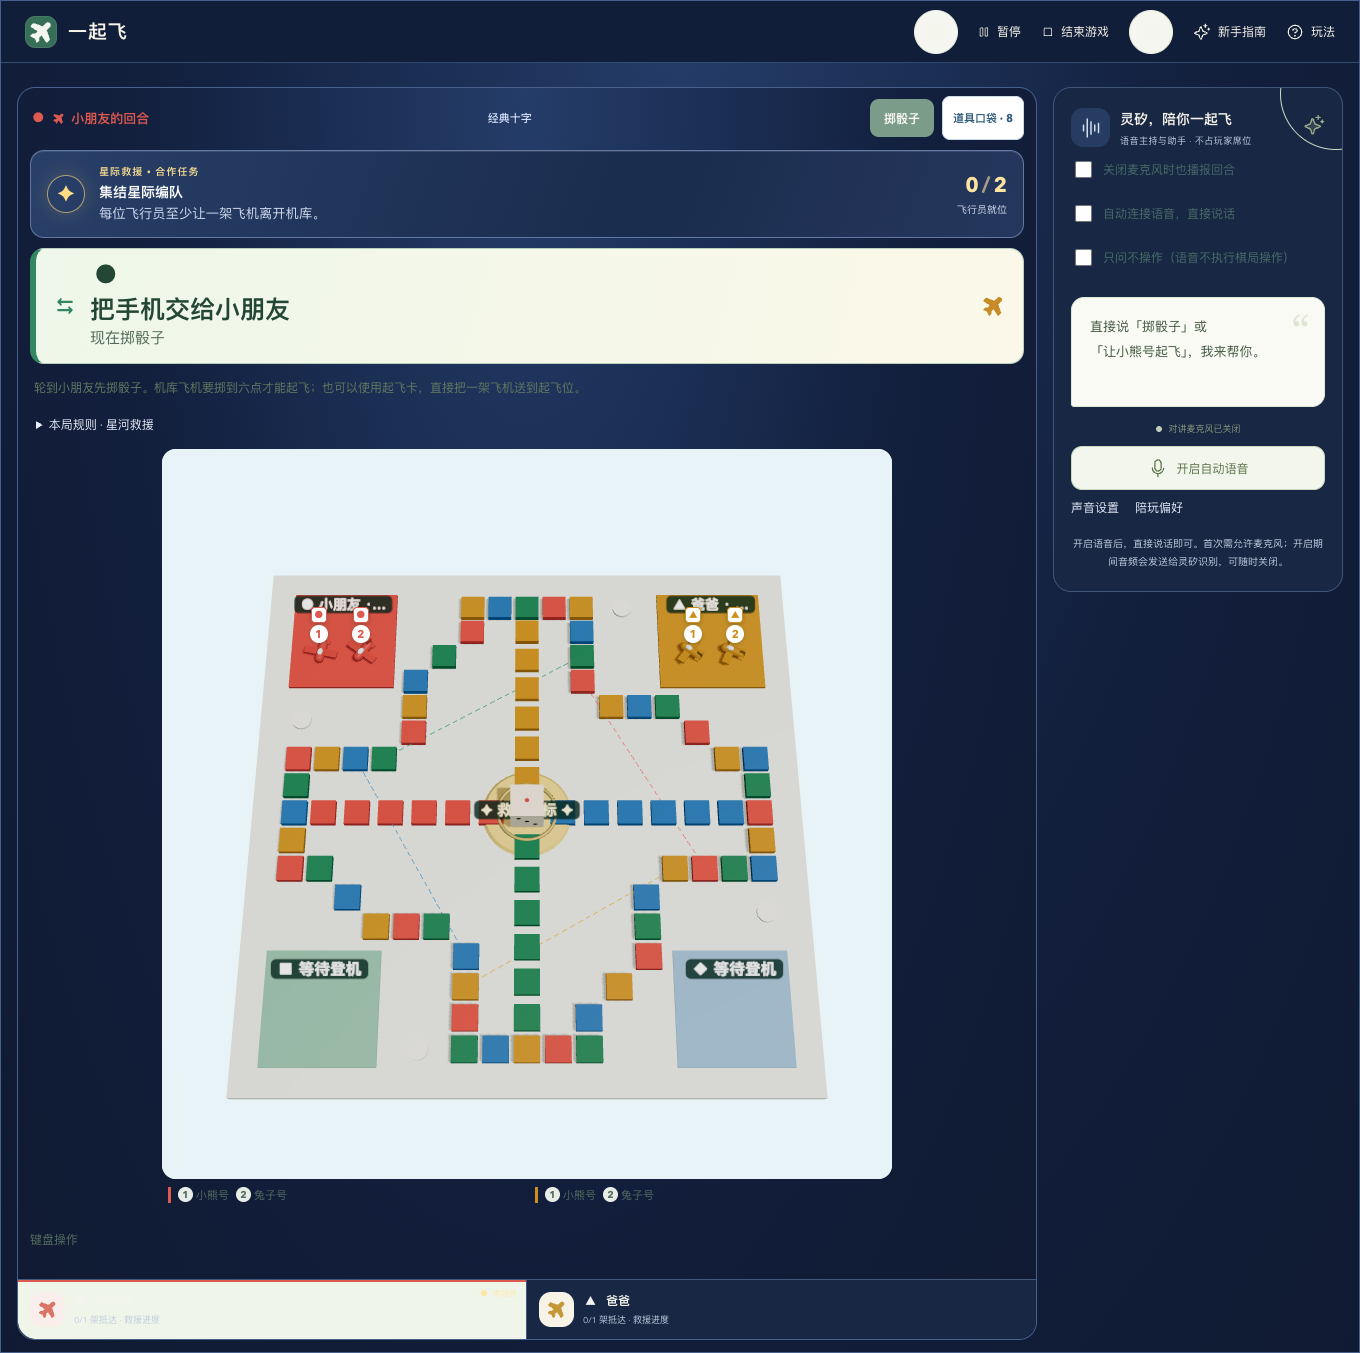
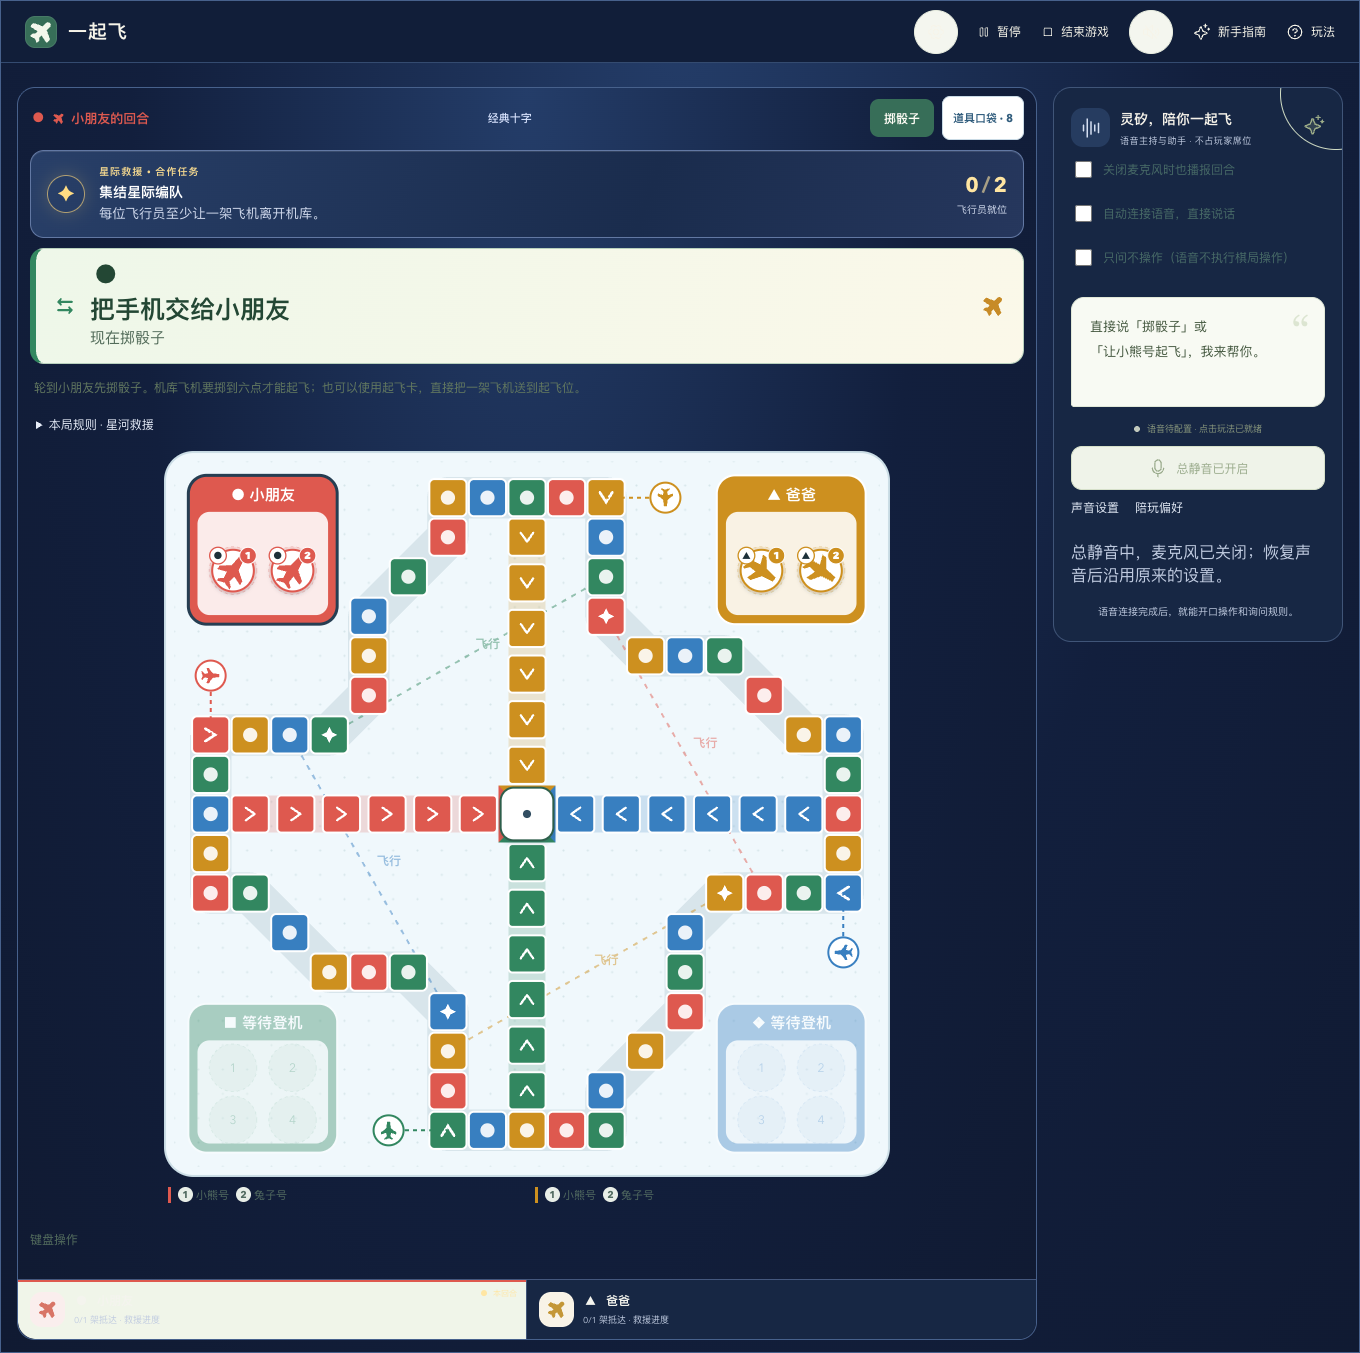
docs: record issue 62 mission verification

Changed region(s): [[0.0926, 0.3104, 0.6794, 0.8692], [0.7721, 0.3104, 0.9574, 0.4656], [0.6176, 0.0621, 0.7103, 0.1242]]

diff --git a/docs/PROGRESS.md b/docs/PROGRESS.md
@@ -1,6 +1,6 @@
 # 一起飞 · 项目进展
 
-- 更新日期：2026-10-24（Asia/Shanghai）
+- 更新日期：2026-10-25（Asia/Shanghai）
 - 当前阶段：P1陪玩风格/频率、亲子/经典预设与按需棋盘已部署；用户确认亲子/实体手机完成；家庭档案/真实跨局历史已交付；轻量棋盘/减少动画/键盘首版已交付；星河救援合作挑战已合并；玩法平衡继续收集真实家庭反馈
 - 比赛安排：三天两晚，一人开发
 - 公开仓库：[zkevindev/flytogether](https://github.com/zkevindev/flytogether)
@@ -13,7 +13,7 @@
 | M2：家庭飞行棋玩法 | [#2](https://github.com/zkevindev/flytogether/issues/2) | 点击玩法和三种棋盘已同步到 main；实际浏览器演示通过 | 本轮直接同步 main，未创建 PR；后续改动按切片关联 |
 | M3：试玩与比赛交付 | [#3](https://github.com/zkevindev/flytogether/issues/3) | PR #58 已合并；浏览器断网恢复、可见性事件和 30 分钟累计回复队列模拟已完成；真实手机切网/后台/声学与灵矽长连仍待现场 | [PR #58](https://github.com/zkevindev/flytogether/pull/58) · merge `802c893` · [DEMO-RUNBOOK](DEMO-RUNBOOK.md) |
 | 产品化 1.0 | [#17](https://github.com/zkevindev/flytogether/issues/17) | 星河救援合作挑战和首轮试玩平衡流程已合并；跨家庭玩法/道具反馈仍在收集 | [PR #59](https://github.com/zkevindev/flytogether/pull/59) · merge `29e4019` · [PLAYTEST-BALANCE](PLAYTEST-BALANCE.md) |
-| 星际救援与 Realtime MCP | [#62](https://github.com/zkevindev/flytogether/issues/62) | 主题、合作任务卡和只读MCP实现完成；PR开放，CI/Review进行中 | [PR #63](https://github.com/zkevindev/flytogether/pull/63) · `codex/issue-62-theme-tasks` |
+| 星际救援与 Realtime MCP | [#62](https://github.com/zkevindev/flytogether/issues/62) | 主题、任务卡和 MCP 已合并；审计修复观赛端进度展示滞后，PR #65 待合并 | [PR #63](https://github.com/zkevindev/flytogether/pull/63) · [PR #64](https://github.com/zkevindev/flytogether/pull/64) · [PR #65](https://github.com/zkevindev/flytogether/pull/65) |
 | 自定义语音唤醒（历史） | [#4](https://github.com/zkevindev/flytogether/issues/4) | 历史验收已完成，当前交互由 #14 直接对话替代 | [a85e63b](https://github.com/zkevindev/flytogether/commit/a85e63b)、[87a0d09](https://github.com/zkevindev/flytogether/commit/87a0d09)，直接 main |
 | 棋盘重做 | [#5](https://github.com/zkevindev/flytogether/issues/5) | 四角机场、连续彩色航线、中央骰子、放大和手机布局已实现并演示 | 直接 main，提交回链见 Issue |
 | 家庭道具 | [#6](https://github.com/zkevindev/flytogether/issues/6) | 三种道具、库存、AI 与语音用卡已实现 | [37b1a7c](https://github.com/zkevindev/flytogether/commit/37b1a7c)，界面提交见 Issue |
@@ -370,8 +370,10 @@ Go race/vet、前端单测/构建及Chrome实际道具流程通过；11项道具
 
 道具平衡继续按多个家庭、自然结束对局和主观反馈收集样本；本轮没有依据不足的任意调参。PR #59 已回链 [Issue #17](https://github.com/zkevindev/flytogether/issues/17)，后续真实反馈继续在该 Issue 记录。
 
-## 星际救援主题包与 Realtime MCP（#62，进行中）
+## 星际救援主题包与 Realtime MCP（#62）
 
-实现内容：合作局增加三种可选任务卡及 Go 权威进度；任务事件随已提交的走棋记录、持久化、重连与同配置再玩处理。灵矽 Realtime 通过原生 MCP 查询当前绑定对局的摘要、任务进度、规则和合法行动；MCP bearer 短时、哈希存储、可撤销并限流，工具只读，不替代现有受 Go 校验的写操作。
+实现内容：合作局提供可选主题和三种服务端白名单任务卡；进度从已提交的玩家统计派生，自动幂等、持久化并随联网房间同步。无额外任务时仍可按标准合作规则游玩；任务自然完成/失败、中途结束和重开均显示权威状态。装饰奖励不改变骰子、道具库存或胜负。
 
-本地 `go test ./...`、前端生产构建与单测通过；Chrome 合作任务/邀请回归、产品页多视口、观赛自然胜局与服务重启恢复通过；灵矽实际 Realtime 合成音频联调的观赛私聊回归通过。产品页和观赛页共8张截图已从实际运行界面重拍，来源和 SHA-256 已更新至图片清单。PR、CI 和合并仍待完成，故 Issue 尚未标记完成。
+灵矽 Realtime 使用原生只读 MCP 查询当前房间摘要、任务进度、规则与合法行动。短期 bearer 按房间/玩家会话绑定，哈希存储、可撤销和限流；失败/迟到工具事件不播报成功，玩家写操作仍通过 Go 规则与授权链路。公网真实 Realtime 已成功导入工具、查询任务并完整语音续答，查询前后游戏版本和任务进度不变。
+
+验证：Go race/vet、前端全量单测/生产构建通过；真实 Chrome 检查桌面房主、独立手机玩家与观赛手机，覆盖任务 `0/2→1/2→2/2`、手机断线期间完成后回位、重复请求幂等、刷新恢复、减少动画/静音偏好及自然完成/重开，页面错误为 0。观赛端之前读取动画队列中的旧棋局快照，现改为显示房间服务端最新任务状态。产品截图、观赛问答图和任务图均更新来源哈希；详情见 [合作任务验收](QA-MISSIONS.md)、[MCP验收](QA-MCP.md) 与 [截图说明](SCREENSHOTS.md)。主题和 MCP 由 [PR #63](https://github.com/zkevindev/flytogether/pull/63) 合并，截图与 MCP 实测记录由 [PR #64](https://github.com/zkevindev/flytogether/pull/64) 合并，多端回归与进度显示修复由 [PR #65](https://github.com/zkevindev/flytogether/pull/65) 跟踪。

diff --git a/README.md b/README.md
@@ -5,7 +5,7 @@
 
 **可以同屏，也能邀请朋友各用一台设备玩的语音飞行棋。** 点击或直接说“掷骰子”“让小熊号起飞”，灵矽负责对话和解说，Go 负责随机骰子、真实走棋与胜负。
 
-当前为 **0.1.0 可试玩版本**，更新于 **2026-10-24**。已完成公网部署与多条真实语音链路验证，正在向完整家庭产品迭代；下一阶段见 [产品化路线](docs/ROADMAP.md)。
+当前为 **0.1.0 可试玩版本**，更新于 **2026-10-25**。已完成公网部署与多条真实语音链路验证，正在向完整家庭产品迭代；下一阶段见 [产品化路线](docs/ROADMAP.md)。
 
 ![一起飞当前大棋盘对局页](docs/images/current/play-desktop.png)
 
@@ -16,6 +16,18 @@
 3. 首次进入先看三步指南，引导期间保持安静；完成或跳过后再按偏好连接语音。点击掷骰，选飞机看预计落点，确认后再飞行；也可允许麦克风后直接说话，**无需唤醒词**。骰子弹窗结束后才播放走棋和起飞效果。
 
 同屏模式返回首页会暂停，继续当前游戏保留棋局；联网模式返回首页保留席位，不暂停其他人的对局，暂停/继续/结束由房主控制。主动结束成功后返回首页，不再显示该局的继续入口；关闭对讲麦克风后，仍可选择让灵矽主动播报下一位玩家。
+
+### 星际救援与合作任务
+
+合作挑战支持同屏、邀请房间、机器人和观赛。可选编队、信号网络或补给协作任务；不选任务仍按原合作规则游玩。Go 根据已提交的掷骰、起飞和用卡统计任务进度，同一操作重试不会重复计数；房间刷新、重连与同配置再玩都会恢复或重置到正确状态。任务卡只给装饰徽章，不增加战力。
+
+灵矽的 Realtime MCP 仅查询当前已绑定对局的摘要、任务进度、规则和合法行动。工具结果返回后再回答，不提供掷骰或走棋写工具；普通游戏操作仍由 Go 按玩家席位授权。
+
+| 桌面合作棋局 | 手机观赛与同步进度 |
+| --- | --- |
+| ![星际救援桌面合作任务卡](docs/images/mission/rescue-board-desktop.png) | ![手机观赛显示已同步的合作任务进度](docs/images/mission/rescue-spectator-mobile.png) |
+
+[合作任务验收](docs/QA-MISSIONS.md) · [Realtime MCP 验收](docs/QA-MCP.md)
 
 ### 邀请朋友联网玩
 
@@ -285,7 +297,7 @@ QA_FAMILY_SERVER=/tmp/flytogether-qa-server npm --prefix web run test:family:bro
 
 脚本只启动和重启自己的子进程，使用临时数据库；访问已运行环境可用 `QA_BASE_URL`。详见[家庭档案验收](docs/QA-FAMILY.md)。
 
-浏览器脚本需要已安装 Chrome。真实灵矽合成语音、主动播报、故障模拟、真人反馈与时延口径分别见 [语音验收](docs/QA-VOICE.md)；Realtime MCP 实际工具调用见 [MCP 验收](docs/QA-MCP.md)；起飞卡直接起飞见[起飞卡验收](docs/QA-LAUNCH-CARD.md)；联网与结算见 [联机验收](docs/QA-NETWORK.md)；教练建议与确认见 [教练验收](docs/QA-COACH.md)；3D 资源、上下文恢复与降级见 [棋盘验收](docs/QA-3D.md)。截图工具与来源见 [截图说明](docs/SCREENSHOTS.md)。
+浏览器脚本需要已安装 Chrome。真实灵矽合成语音、主动播报、故障模拟、真人反馈与时延口径分别见 [语音验收](docs/QA-VOICE.md)；合作任务同步见[任务验收](docs/QA-MISSIONS.md)，Realtime MCP 实际工具调用见 [MCP 验收](docs/QA-MCP.md)；起飞卡直接起飞见[起飞卡验收](docs/QA-LAUNCH-CARD.md)；联网与结算见 [联机验收](docs/QA-NETWORK.md)；教练建议与确认见 [教练验收](docs/QA-COACH.md)；3D 资源、上下文恢复与降级见 [棋盘验收](docs/QA-3D.md)。截图工具与来源见 [截图说明](docs/SCREENSHOTS.md)。
 
 ## 部署
 

diff --git a/docs/QA-MISSIONS.md b/docs/QA-MISSIONS.md
@@ -1,0 +1,32 @@
+# 星际救援主题与合作任务验收
+
+## 自动化覆盖
+
+Go 规则和存档回归：
+
+```sh
+go test ./internal/game ./internal/room
+```
+
+覆盖任务白名单、开始与进度、重复刷新幂等、玩家贡献校验、自然完成/失败、手动结束、SQLite 恢复，以及同配置再玩的任务重置。另有 `go test -race ./...` 和 `go vet ./...` 全仓检查。
+
+Chrome 多设备回归需要已构建的 Go 服务；通过 `QA_BASE_URL` 指定地址：
+
+```sh
+QA_BASE_URL=http://127.0.0.1:8080 \
+QA_OUTPUT_DIR=/tmp/flytogether-coop \
+npm --prefix web run test:coop:browser
+```
+
+测试通过真实创建入口完成一局星河救援、服务端随机骰子和合法走棋，验证任务完成、刷新恢复和同配置再玩重置。再创建双人联网信号任务，让桌面房主、390px 手机玩家和手机观众使用各自隔离会话；一个真人达到三次已提交掷骰后，三端都显示 `1/2`。接着模拟手机断网，让另一席在其离线期间完成任务，手机恢复连接后同步到 `2/2`；重复提交同一个操作编号不会增加棋局版本，刷新手机席位后任务仍为 `2/2`。回归还核对轻量平面、减少动画和总静音偏好。所有骰点、位置和任务进度均由正式服务端生成，没有注入棋局状态。
+
+## 2026-10-25 回归结果
+
+- 本地 Go 服务 + 实际 Chrome：`test:coop:browser` 通过；自然合作局结束并重开，联网局验证桌面/手机/观赛端实时同步、手机断线期间完成任务后回位到 `2/2`、重复请求幂等、刷新恢复；页面错误 0。
+- `go test -race ./...`、`go vet ./...`、`npm --prefix web run test:unit`、`npm --prefix web run build` 通过。
+- 完整灵矽 Realtime MCP 工具调用和问答见 [MCP 验收](QA-MCP.md)。独立座位权限、真人与机器人回合、观赛权限沿用既有联机验收。
+- 桌面与手机图片的来源和哈希见 [任务截图清单](images/mission/manifest.json)。
+
+## 权限边界
+
+任务进度在 Go 已提交命令后由玩家累计统计派生；MCP 只读工具不接收任务修改或游戏写操作。工具凭据短时绑定当前房间/会话并哈希存储，失败或迟到的工具结果不得转成成功答复。Realtime MCP 的异步工具导入、完成、失败、迟到及续答测试见 [QA-MCP](QA-MCP.md)。

diff --git a/docs/SCREENSHOTS.md b/docs/SCREENSHOTS.md
@@ -113,4 +113,4 @@ npm --prefix web run capture:docs
 
 ## 星际救援主题与观赛任务卡（#62）
 
-[mission/manifest.json](images/mission/manifest.json) 记录同屏桌面合作任务和联网观赛手机页两张真实 Chrome 截图。截图由 Go 创建的救援任务与服务端随机规则局生成，观赛页显示同一任务目标及进度；不是静态设计稿。
+[mission/manifest.json](images/mission/manifest.json) 记录同屏桌面合作任务和联网观赛手机页两张真实 Chrome 截图。截图由 Go 创建的救援任务与服务端随机骰子/合法走棋生成，手机观赛图显示跨设备同步后的 `1/2` 进度；不注入棋盘或点数，也不是静态设计稿。复跑见[合作任务验收](QA-MISSIONS.md)。
